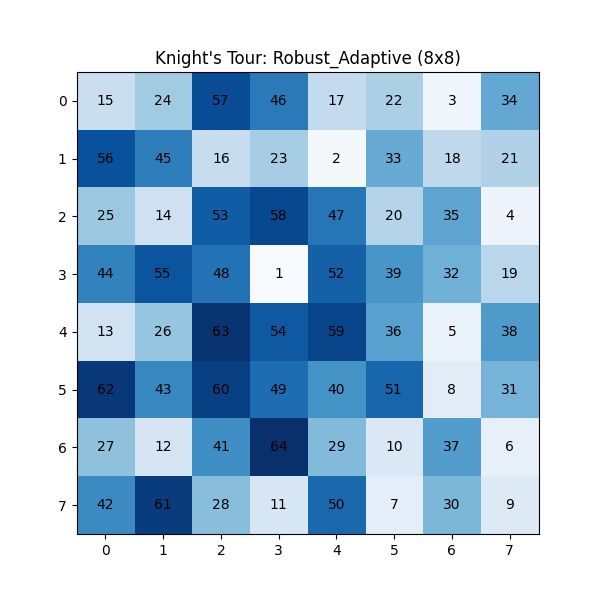
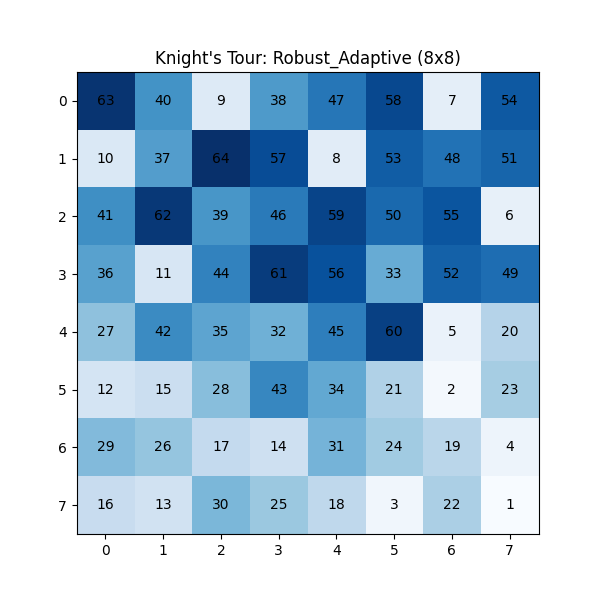
"added tries"

diff --git a/main.py b/main.py
@@ -73,19 +73,33 @@ def plot_board(path, size, algo_name):
 
 results = []
 for size in [8]:
-    # Run all three
-    path1, n1 = dfs((0,0), size, [(0,0)], [0]), 3000
-    path2, n2 = warnsdorff_standard(size)
-    path3, n3 = warnsdorff_robust(size, start_pos=(3,3))
+    # Run all three with timing
+    start1 = time.time()
+    path1, n1 = dfs((0,0), size, [(0,0)], [0], limit=30000), 30000
+    time1 = time.time() - start1
     
-    results.append({'Algo': 'DFS (Blind)', 'Nodes': n1 if path1 else 'Failed'})
-    results.append({'Algo': 'Standard Warnsdorff', 'Nodes': n2})
-    results.append({'Algo': 'Robust Adaptive', 'Nodes': n3})
+    start2 = time.time()
+    path2, n2 = warnsdorff_standard(size)
+    time2 = time.time() - start2
+    
+    results.append({'Algo': 'DFS (Blind)', 'Nodes': n1 if path1 else 'Failed', 'Time (s)': f'{time1:.4f}', 'Start Pos': '-'})
+    results.append({'Algo': 'Standard Warnsdorff', 'Nodes': n2, 'Time (s)': f'{time2:.4f}', 'Start Pos': '(0,0)'})
+    
+    # Run Robust Adaptive with multiple starting positions
+    starting_positions = [(0,0), (1,1), (2,2), (3,3), (4,4), (5,5), (6,6), (7,7)]
+    robust_paths = []
+    for start_pos in starting_positions:
+        start3 = time.time()
+        path3, n3 = warnsdorff_robust(size, start_pos=start_pos)
+        time3 = time.time() - start3
+        results.append({'Algo': 'Robust Adaptive', 'Nodes': n3, 'Time (s)': f'{time3:.4f}', 'Start Pos': str(start_pos)})
+        robust_paths.append((path3, start_pos))
     
     # Plot successful tours
     if path1: plot_board(path1, size, 'DFS')
     if path2: plot_board(path2, size, 'Standard_Warnsdorff')
-    if path3: plot_board(path3, size, 'Robust_Adaptive')
+    for path3, start_pos in robust_paths:
+        if path3: plot_board(path3, size, f'Robust_Adaptive_start_{start_pos[0]}_{start_pos[1]}')
 
 pd.DataFrame(results).to_csv(os.path.join(base_dir, 'comparison.csv'), index=False)
 print("Comparison complete. Check 'comparison.csv' and PNG files in your folder.")
